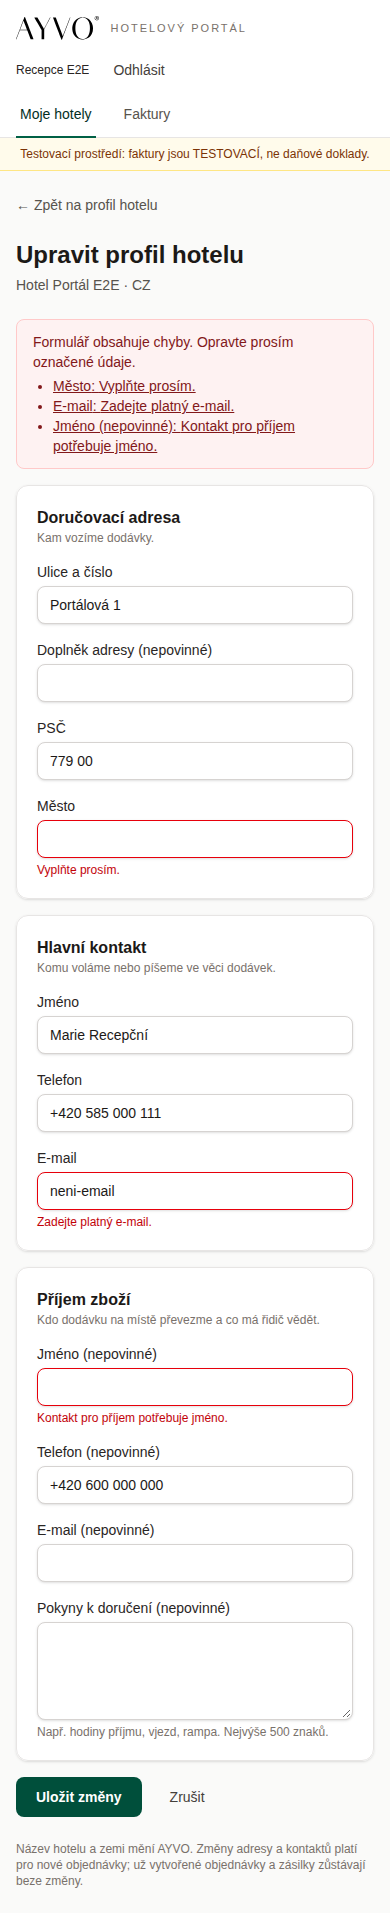
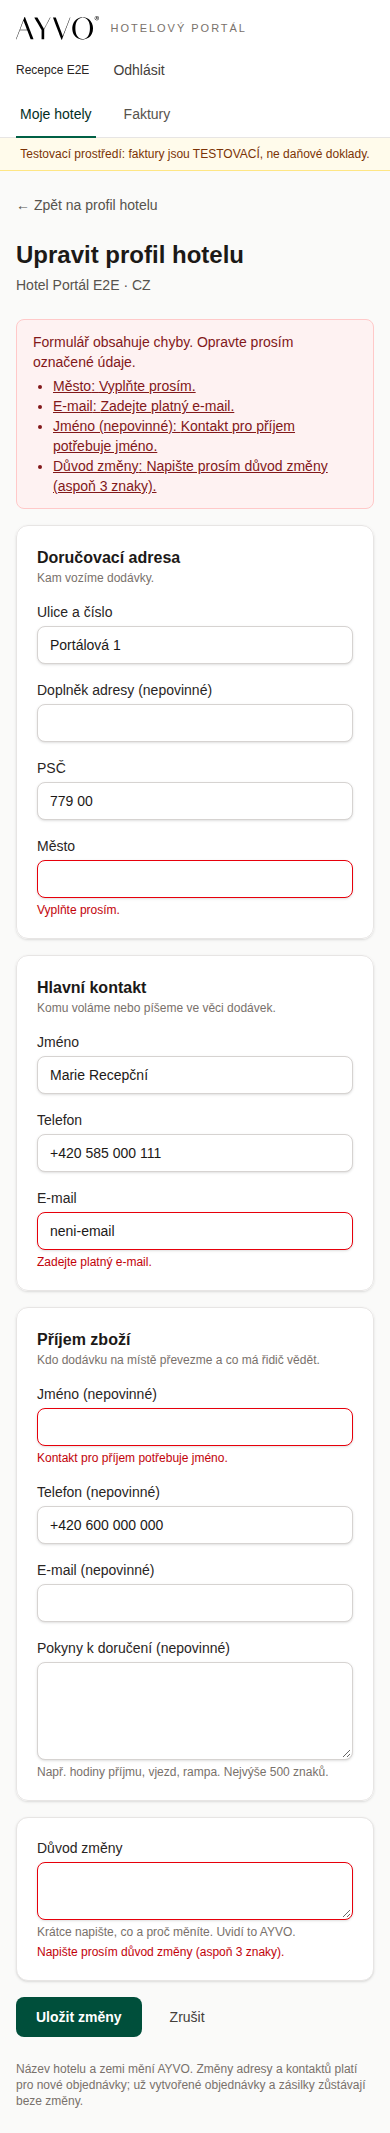
feat(portal): a required reason for every profile change (owner decisions 2026-11-09)
Owner, 2026-11-09 (doc 053): the hotel name stays read only; every account with a grant may
edit; every change needs a reason "so we know why"; no staff notification (an address change
applies only to orders created afterwards, existing ones keep their snapshot).

The save now requires `reason` (3–500 characters, strict schema in portal-web and the core); it is
kept as the audit event's reason with the account, grant and before/after. The form gets a
required "Důvod změny" field with the same error summary and focus. Tests: the reason in the
audit, missing/blank/too long → 400; the portal specs send and check it.

diff --git a/apps/portal/src/components/profile-form.tsx b/apps/portal/src/components/profile-form.tsx
@@ -141,6 +141,8 @@ function Fieldset({
 export function ProfileForm({ profile }: { profile: PortalHotelProfile }) {
   const [values, setValues] = useState<Values>(() => initial(profile));
   const [errors, setErrors] = useState<Partial<Record<Key, string>>>({});
+  const [reason, setReason] = useState('');
+  const [reasonError, setReasonError] = useState<string | null>(null);
   const [failure, setFailure] = useState<string | null>(null);
   const [stale, setStale] = useState(false);
   const [busy, setBusy] = useState(false);
@@ -165,7 +167,9 @@ export function ProfileForm({ profile }: { profile: PortalHotelProfile }) {
     setStale(false);
     const found = problems(values);
     setErrors(found);
-    if (Object.keys(found).length > 0) {
+    const badReason = reason.trim().length < 3 || reason.trim().length > 500;
+    setReasonError(badReason ? cs.profile.invalid.reason : null);
+    if (Object.keys(found).length > 0 || badReason) {
       requestAnimationFrame(() => summary.current?.focus());
       return;
     }
@@ -174,7 +178,7 @@ export function ProfileForm({ profile }: { profile: PortalHotelProfile }) {
       const res = await fetch(`/hotels/${profile.id}/profile`, {
         method: 'POST',
         headers: { 'content-type': 'application/json' },
-        body: JSON.stringify({ expected: profile.fingerprint, profile: values }),
+        body: JSON.stringify({ expected: profile.fingerprint, profile: values, reason }),
       }).catch(() => null);
       const data = (await res?.json().catch(() => ({}))) as {
         code?: string;
@@ -204,7 +208,7 @@ export function ProfileForm({ profile }: { profile: PortalHotelProfile }) {
     }
   }
 
-  const invalid = Object.keys(errors).length > 0;
+  const invalid = Object.keys(errors).length > 0 || reasonError !== null;
   return (
     <form noValidate onSubmit={submit} className="flex flex-col gap-4" data-testid="profile-form">
       {(invalid || failure) && (
@@ -224,6 +228,13 @@ export function ProfileForm({ profile }: { profile: PortalHotelProfile }) {
                   </a>
                 </li>
               ))}
+              {reasonError && (
+                <li>
+                  <a href="#field-reason" className="underline">
+                    {cs.profile.reason}: {reasonError}
+                  </a>
+                </li>
+              )}
             </ul>
           )}
           {stale && (
@@ -253,6 +264,31 @@ export function ProfileForm({ profile }: { profile: PortalHotelProfile }) {
         {field('receivingContactEmail', 254, { type: 'email', autoComplete: 'off' })}
         {field('deliveryNote', 500, { wide: true, multiline: true, help: cs.profile.noteHelp })}
       </Fieldset>
+      <div className="flex flex-col gap-1 rounded-xl border border-stone-200 bg-white p-5 shadow-sm">
+        <label htmlFor="field-reason" className="text-sm font-medium text-stone-800">
+          {cs.profile.reason}
+        </label>
+        <textarea
+          id="field-reason"
+          name="reason"
+          rows={2}
+          maxLength={500}
+          required
+          value={reason}
+          onChange={(e) => setReason(e.target.value)}
+          aria-invalid={reasonError ? true : undefined}
+          aria-describedby={`field-reason-help${reasonError ? ' field-reason-error' : ''}`}
+          className={input}
+        />
+        <p id="field-reason-help" className="text-xs text-stone-500">
+          {cs.profile.reasonHelp}
+        </p>
+        {reasonError && (
+          <p id="field-reason-error" className="text-xs font-medium text-red-700">
+            {reasonError}
+          </p>
+        )}
+      </div>
       <div className="flex flex-wrap items-center gap-3">
         <button
           type="submit"

diff --git a/apps/portal/e2e/profile.spec.ts b/apps/portal/e2e/profile.spec.ts
@@ -99,6 +99,8 @@ test.describe('hotel portal: the hotel profile', () => {
     await page.keyboard.type('+420 600 300 400');
     await page.getByLabel('Pokyny k doručení (nepovinné)').focus();
     await page.keyboard.type('Příjem 7–11 h, rampa.');
+    await page.getByLabel('Důvod změny').focus();
+    await page.keyboard.type('Nový vchod ze dvora');
     await page.getByLabel('E-mail', { exact: true }).focus();
     await page.keyboard.press('Enter');
 
@@ -112,7 +114,13 @@ test.describe('hotel portal: the hotel profile', () => {
     const state = await stubState(page);
     expect(state.profileSaves).toBe(1);
     // Only the whitelisted fields, the fingerprint and the browser request reached the core.
-    expect(Object.keys(state.lastProfileBody!).sort()).toEqual(['client', 'expected', 'profile']);
+    expect(Object.keys(state.lastProfileBody!).sort()).toEqual([
+      'client',
+      'expected',
+      'profile',
+      'reason',
+    ]);
+    expect(state.lastProfileBody!.reason).toBe('Nový vchod ze dvora');
     expect(Object.keys(state.lastProfileBody!.profile as object).sort()).toEqual(
       [
         'addressLine1',
@@ -147,6 +155,8 @@ test.describe('hotel portal: the hotel profile', () => {
     await expect(alert).toContainText('Město: Vyplňte prosím.');
     await expect(alert).toContainText('E-mail: Zadejte platný e-mail.');
     await expect(alert).toContainText('Jméno (nepovinné): Kontakt pro příjem potřebuje jméno.');
+    await expect(alert).toContainText('Důvod změny: Napište prosím důvod změny');
+    await expect(page.getByLabel('Důvod změny')).toHaveAttribute('aria-invalid', 'true');
     await expect(page.getByLabel('Město')).toHaveAttribute('aria-invalid', 'true');
     await noSideways(page);
     await shot(page, 'profile-invalid');
@@ -161,6 +171,7 @@ test.describe('hotel portal: the hotel profile', () => {
     await page.goto(`/hotels/${hotelId}/edit`);
     await control(page, { touchProfile: true });
     await page.getByLabel('Ulice a číslo').fill('Souběžná 1');
+    await page.getByLabel('Důvod změny').fill('Oprava adresy');
     await page.getByRole('button', { name: 'Uložit změny' }).click();
     await expect(page.getByTestId('profile-form').getByRole('alert')).toContainText(
       'mezitím změnil někdo jiný',
@@ -171,6 +182,7 @@ test.describe('hotel portal: the hotel profile', () => {
 
     await control(page, { profileGrant: false });
     await page.getByLabel('Ulice a číslo').fill('Odvolaná 1');
+    await page.getByLabel('Důvod změny').fill('Oprava adresy');
     await page.getByRole('button', { name: 'Uložit změny' }).click();
     await expect(page.getByTestId('profile-form').getByRole('alert')).toContainText(
       'Tento hotel už ve vašem přístupu není.',
@@ -192,7 +204,7 @@ test.describe('hotel portal: the hotel profile', () => {
     const current = (await (await page.request.get(`${STUB}/__state`)).json()) as {
       profile: Record<string, string | null>;
     };
-    const body = { expected: 'a'.repeat(64), profile: current.profile };
+    const body = { expected: 'a'.repeat(64), profile: current.profile, reason: 'Oprava údajů' };
     const save = (id: string, data: unknown, headers: Record<string, string> = {}) =>
       page.request.post(`/hotels/${id}/profile`, {
         data,

diff --git a/apps/api/test/portal-hotel-profile.e2e.test.ts b/apps/api/test/portal-hotel-profile.e2e.test.ts
@@ -78,7 +78,8 @@ describe.skipIf(!hasDatabase)('hotel portal: the hotel profile', () => {
     expected: string,
     profile: Record<string, unknown>,
     c = client(),
-  ) => post(`hotels/${hotelId}/profile`, session).send({ expected, profile, client: c });
+    reason = 'Nová recepce a příjem zboží ze dvora',
+  ) => post(`hotels/${hotelId}/profile`, session).send({ expected, profile, reason, client: c });
   const row = (id: string) => t.prisma.hotel.findUniqueOrThrow({ where: { id } });
   const audits = (code: string) =>
     t.prisma.auditEvent.findMany({
@@ -220,7 +221,11 @@ describe.skipIf(!hasDatabase)('hotel portal: the hotel profile', () => {
     const events = await audits(hotelA.code);
     expect(events).toHaveLength(auditsBefore + 1);
     const event = events.at(-1)!;
-    expect(event).toMatchObject({ actorUserId: a.user.id, siteId: before.fulfillmentSiteId });
+    expect(event).toMatchObject({
+      actorUserId: a.user.id,
+      siteId: before.fulfillmentSiteId,
+      reason: 'Nová recepce a příjem zboží ze dvora',
+    });
     expect(event.payload).toMatchObject({
       hotel: hotelA.code,
       via: 'PORTAL',
@@ -263,10 +268,21 @@ describe.skipIf(!hasDatabase)('hotel portal: the hotel profile', () => {
     const extra = await post(`hotels/${hotelA.id}/profile`, a.session).send({
       expected: current.fingerprint,
       profile: profileOf({ city: 'Brno' }),
+      reason: 'Přestěhování recepce',
       client: client(),
       hotelId: hotelB.id,
     });
     expect(extra.status).toBe(400);
+    // The reason is required (owner 2026-11-09).
+    for (const reason of [undefined, '', '  ', 'x'.repeat(501)]) {
+      const res = await post(`hotels/${hotelA.id}/profile`, a.session).send({
+        expected: current.fingerprint,
+        profile: profileOf({ city: 'Brno' }),
+        ...(reason === undefined ? {} : { reason }),
+        client: client(),
+      });
+      expect(res.status, JSON.stringify(reason)).toBe(400);
+    }
     for (const c of [
       client({ origin: 'https://evil.example' }),
       client({ origin: 'https://dev.ayvo.co' }),

diff --git a/apps/api/src/customers/hotels.service.ts b/apps/api/src/customers/hotels.service.ts
@@ -163,7 +163,7 @@ export class HotelsService implements OnModuleInit {
    * locked; a save made against older values (another fingerprint) is refused, unless it asks for
    * exactly what is stored (a repeated save: nothing changes, nothing is audited). Orders keep
    * their own snapshot, so the change applies to orders created afterwards. Audited as
-   * HOTEL_UPDATED with the portal account, its grant and before/after.
+   * HOTEL_UPDATED with the portal account, its grant, the hotel's reason and before/after.
    */
   async applyPortalProfile(
     tx: Prisma.TransactionClient,
@@ -173,6 +173,7 @@ export class HotelsService implements OnModuleInit {
       grantId: string;
       expected: string;
       profile: HotelProfileFields;
+      reason: string;
     },
   ): Promise<PortalHotelProfile> {
     await tx.$executeRaw`SELECT 1 FROM "hotels" WHERE "id" = ${input.hotelId}::uuid FOR UPDATE`;
@@ -200,6 +201,7 @@ export class HotelsService implements OnModuleInit {
         type: 'HOTEL_UPDATED',
         actorUserId: input.actorUserId,
         siteId: row.fulfillmentSiteId,
+        reason: input.reason,
         payload: {
           hotel: row.code,
           via: 'PORTAL',

diff --git a/apps/portal/src/i18n/cs.ts b/apps/portal/src/i18n/cs.ts
@@ -93,6 +93,8 @@ export const cs = {
       deliveryNote: 'Pokyny k doručení (nepovinné)',
     } as Record<string, string>,
     noteHelp: 'Např. hodiny příjmu, vjezd, rampa. Nejvýše 500 znaků.',
+    reason: 'Důvod změny',
+    reasonHelp: 'Krátce napište, co a proč měníte. Uvidí to AYVO.',
     country: 'Země',
     invalid: {
       required: 'Vyplňte prosím.',
@@ -100,6 +102,7 @@ export const cs = {
       email: 'Zadejte platný e-mail.',
       phone: 'Zadejte telefon (číslice, mezery, +, závorky).',
       needsName: 'Kontakt pro příjem potřebuje jméno.',
+      reason: 'Napište prosím důvod změny (aspoň 3 znaky).',
       other: 'Zkontrolujte tento údaj.',
     },
   },

diff --git a/packages/types/src/portal.ts b/packages/types/src/portal.ts
@@ -134,6 +134,8 @@ export type PortalHotelProfile = z.infer<typeof portalHotelProfileSchema>;
 export const portalHotelProfileUpdateSchema = z.strictObject({
   expected: z.string().regex(/^[0-9a-f]{64}$/),
   profile: hotelProfileFieldsSchema,
+  /** Why the hotel changes its details (owner 2026-11-09: required, kept in the audit). */
+  reason: z.string().trim().min(3).max(500),
 });
 export type PortalHotelProfileUpdate = z.infer<typeof portalHotelProfileUpdateSchema>;
 

diff --git a/apps/api/src/portal/portal-contract.controller.ts b/apps/api/src/portal/portal-contract.controller.ts
@@ -315,6 +315,7 @@ export class PortalContractController {
           grantId: grant.id,
           expected: body.expected,
           profile: body.profile,
+          reason: body.reason,
         });
       });
     });

diff --git a/docs/053-hotel-portal-profile.md b/docs/053-hotel-portal-profile.md
@@ -39,8 +39,8 @@ documents are not touched.
   waits for the save.
 - **CSRF:** portal-web refuses a request that does not come from the portal origin. The core
   checks the forwarded browser request again.
-- **Audit:** `HOTEL_UPDATED` with the portal account as actor, the hotel's serving site,
-  `via: PORTAL`, the grant and the changed fields before and after.
+- **Audit:** `HOTEL_UPDATED` with the portal account as actor, the hotel's serving site, the
+  required reason, `via: PORTAL`, the grant and the changed fields before and after.
 
 ## portal-web
 
@@ -60,13 +60,15 @@ therefore needs an explicit allowlist for exactly `POST /hotels/<uuid>/profile` 
 same read timeouts. That change is a separate, follow-up draft PR. Until both are deployed, a save
 behind the DEV edge answers 405 and nothing changes.
 
-## Open questions for the owner
+## Owner decisions (2026-11-09)
 
-1. The hotel name and the country are read only in the portal. AYVO changes them because the
-   country affects carriage and the serving site. Should the hotel be allowed to edit its name?
-2. Every account with a grant on the hotel may edit the profile. Is a separate "read only"
-   portal account needed?
-3. The portal does not ask for a reason for a change, unlike staff "Upravit praktické údaje".
-   The audit records the account, the grant and before/after.
-4. Should AYVO staff be notified of a profile change, for example in Hotely? Nothing is sent
-   today.
+1. **The hotel name stays read only** in the portal; AYVO changes it. The country is read only
+   too.
+2. **Every account with a grant on the hotel may edit** the profile. In practice the hotel's
+   manager holds the access, so no read-only portal account is added.
+3. **A reason is required** for every save, so AYVO knows why. It is kept in the audit event's
+   `reason` together with the account, the grant and before/after. Saving the same values again
+   is still a no-op.
+4. **No notification** to staff. An address change applies only to orders created afterwards;
+   existing orders and their shipments keep their snapshot. The audit with its reason is the
+   record.
